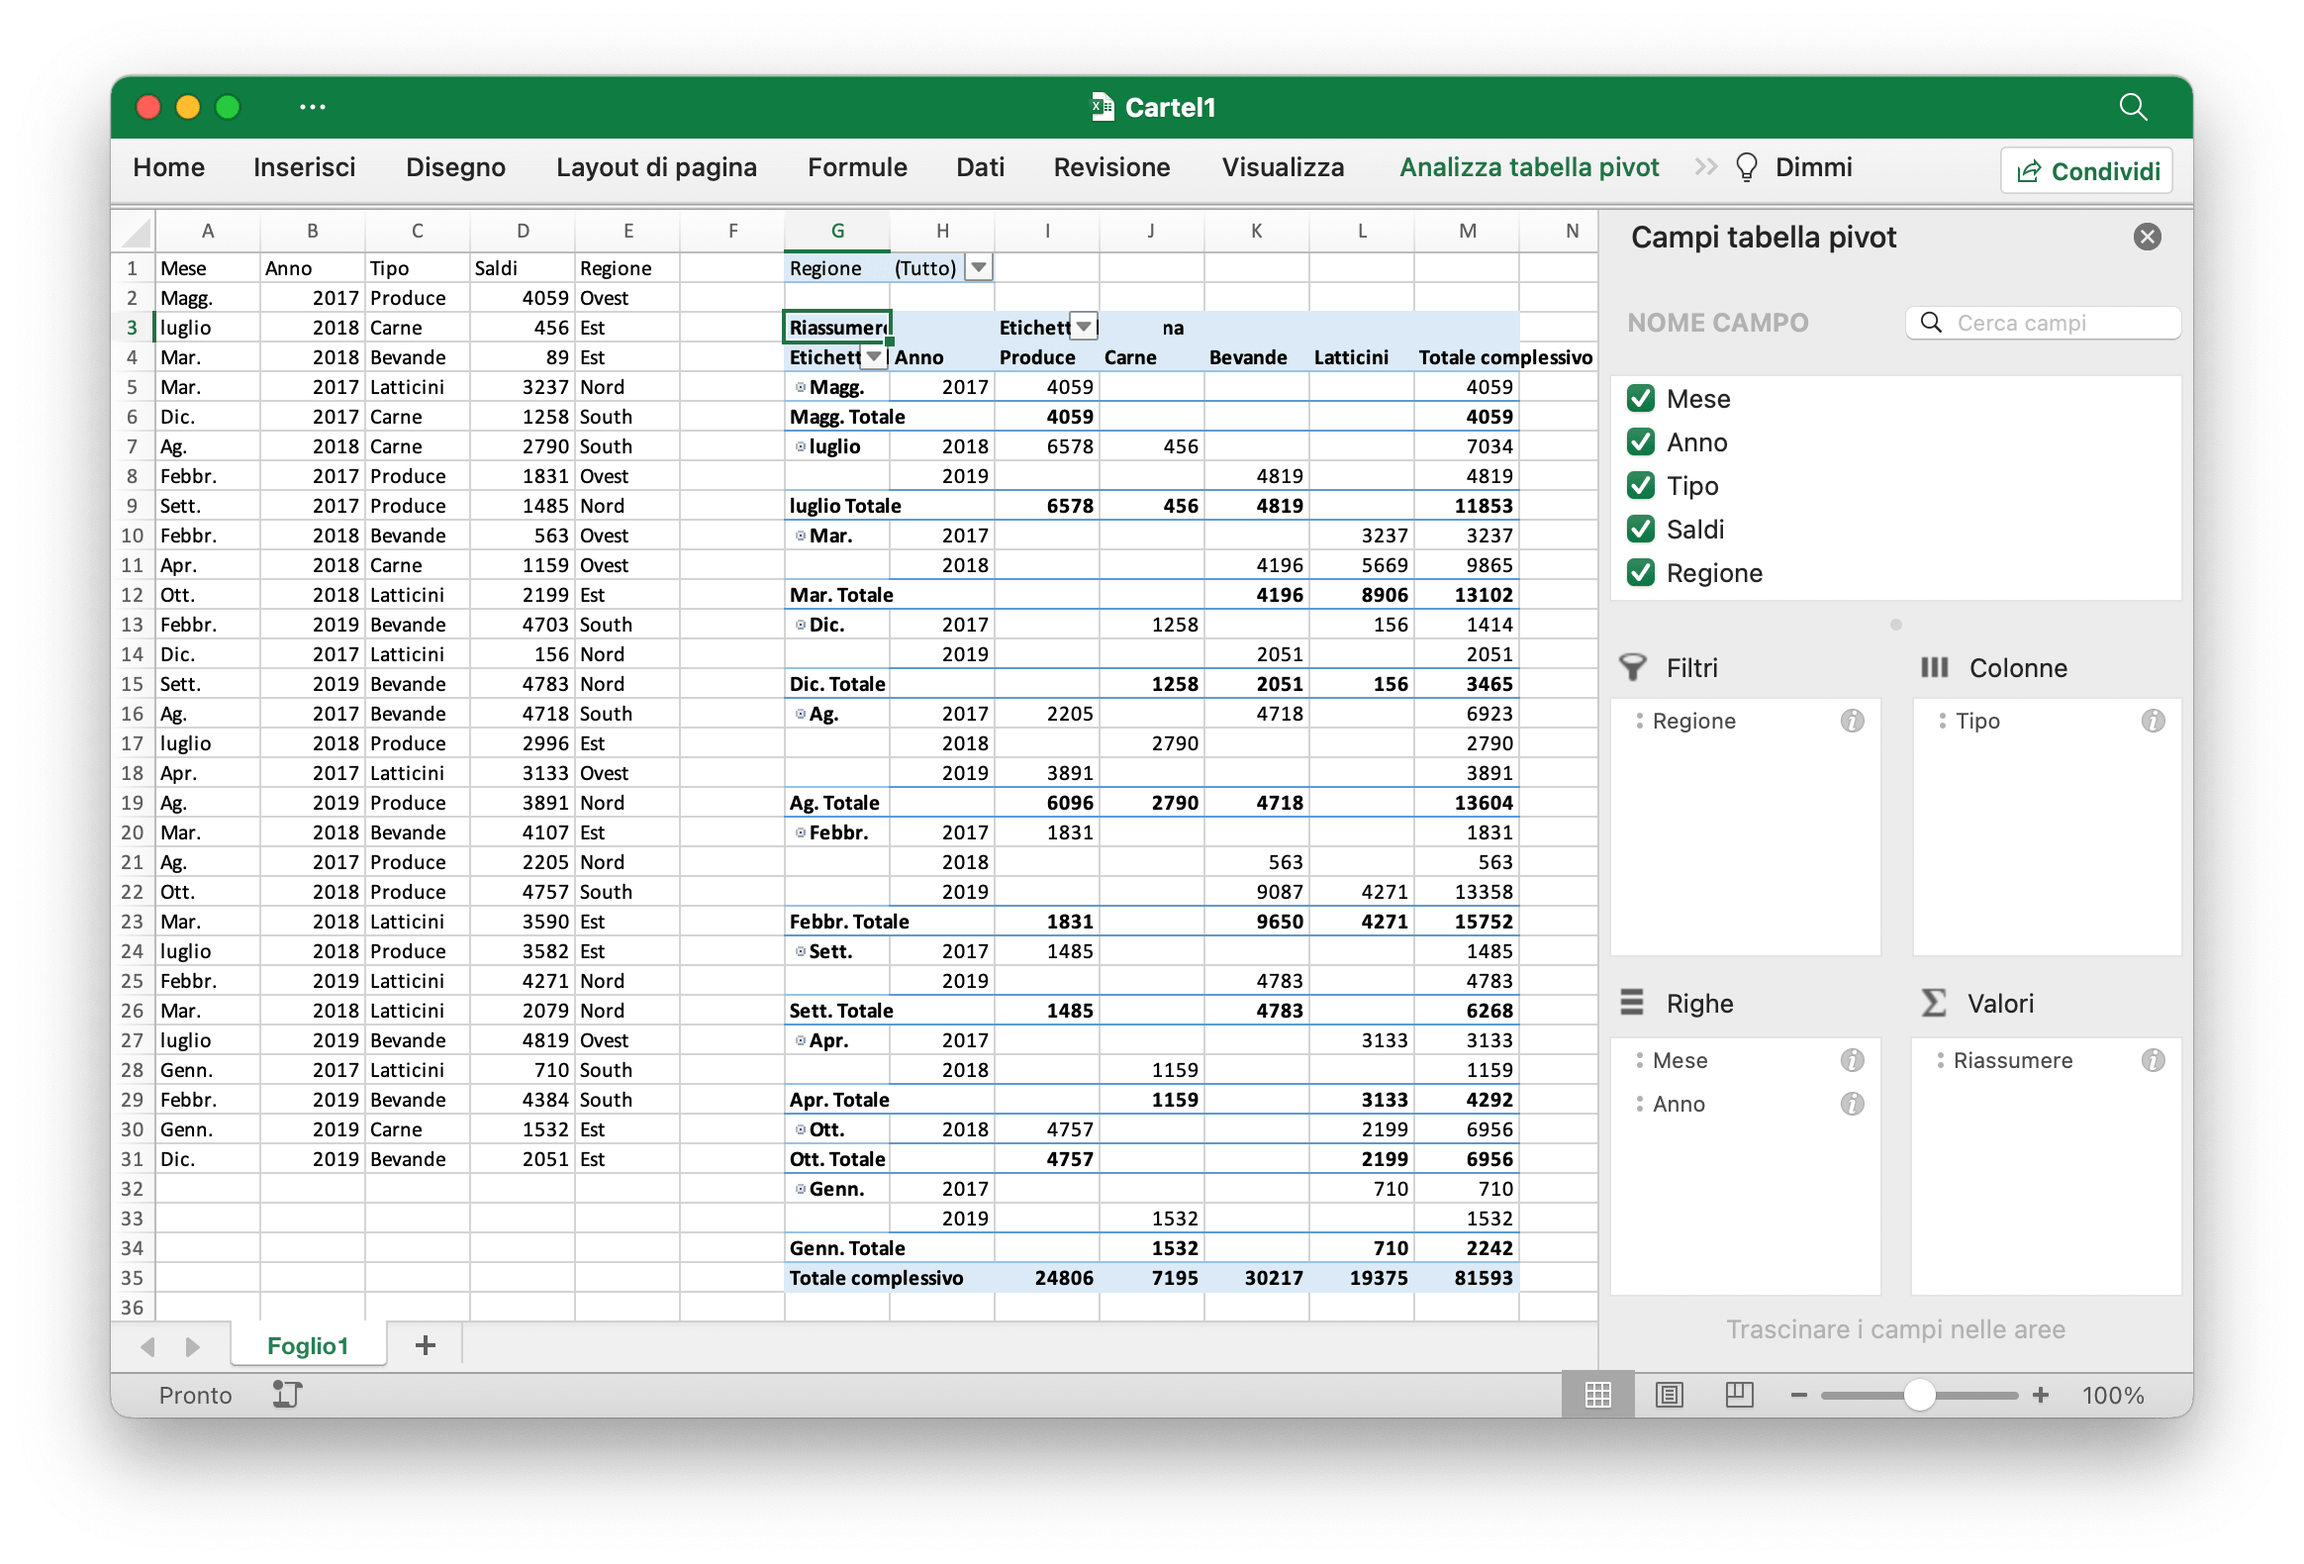
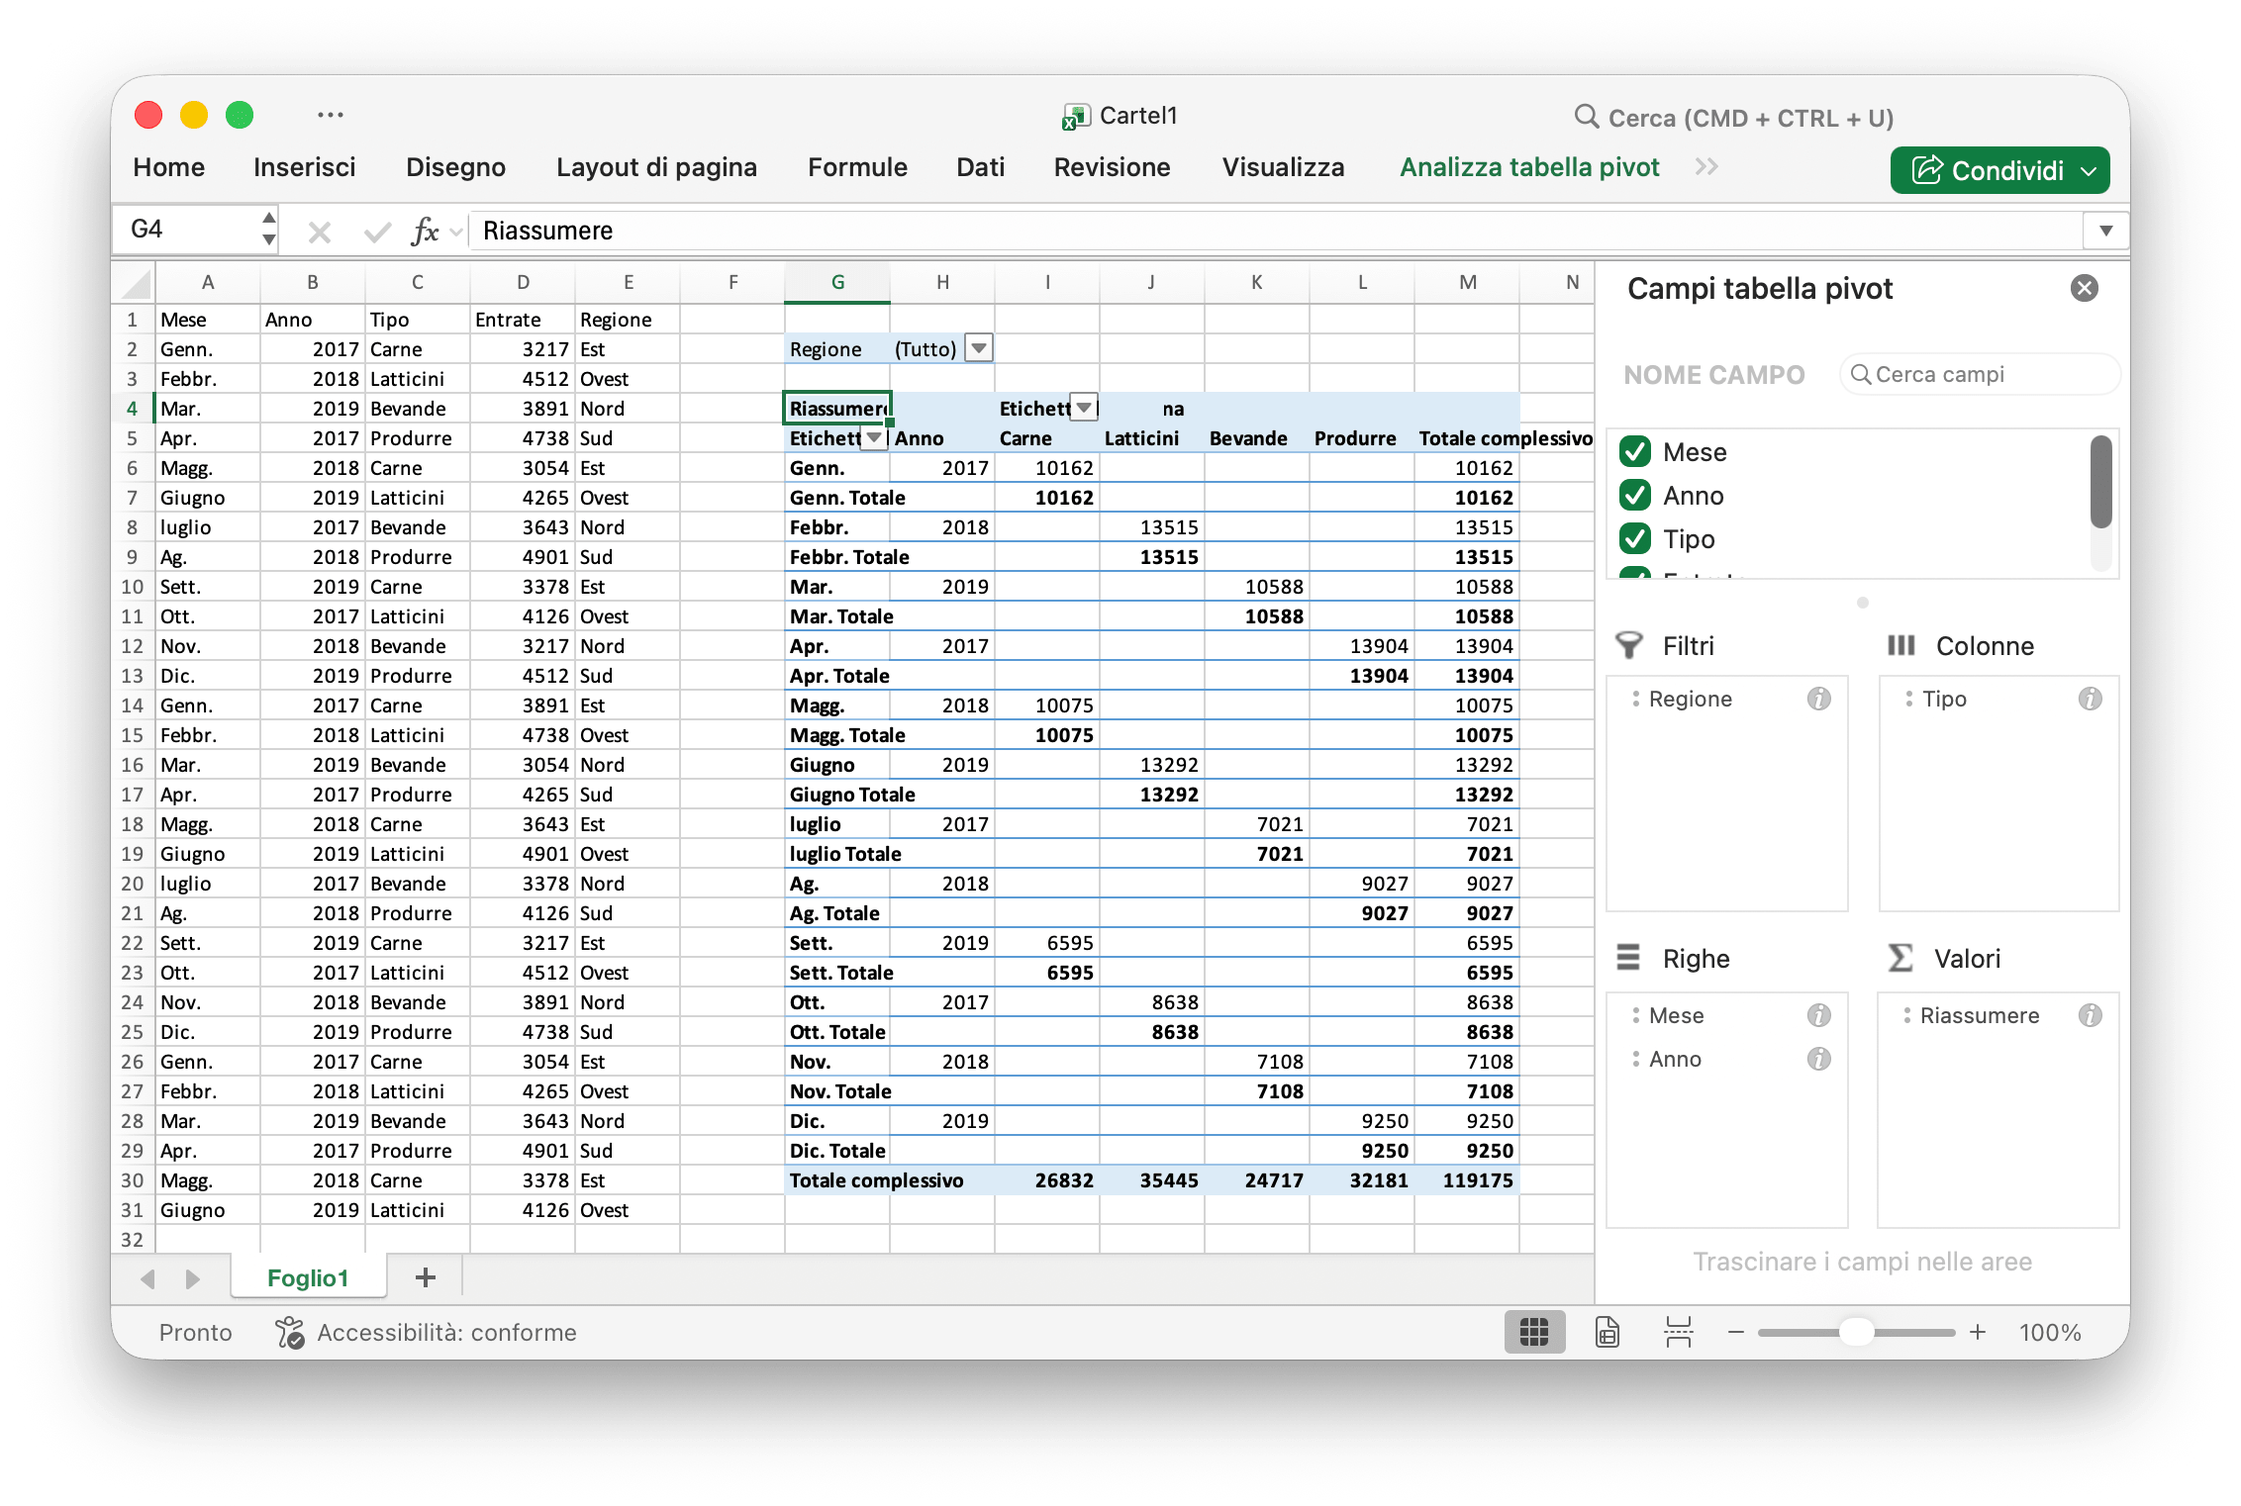
Update it version docs for new SelectedItems fields in PivotTableOptions and SlicerOptions data type
- This related for xuri/excelize#2154, and xuri/excelize#2271

diff --git a/it/pivot.md b/it/pivot.md
@@ -55,6 +55,7 @@ type PivotTableField struct {
     Subtotal        string
     DefaultSubtotal bool
     NumFmt          int
+    SelectedItems   []string
 }
 ```
 
@@ -76,6 +77,8 @@ type PivotTableField struct {
 
 `Name` specifica il nome del campo dati. Nel nome del campo dati sono consentiti al massimo `255` caratteri, i caratteri in eccesso verranno troncati.
 
+`SelectedItems` specifica gli elementi selezionati di default in un campo di una tabella pivot. Gli elementi selezionati devono essere valori compresi nell'intervallo di celle a cui fa riferimento tale campo.
+
 ## Crea tabella pivot {#AddPivotTable}
 
 ```go
@@ -84,16 +87,15 @@ func (f *File) AddPivotTable(opts *PivotTableOptions) error
 
 AddPivotTable fornisce il metodo per aggiungere una tabella pivot in base alle opzioni della tabella pivot.
 
-Ad esempio, crea una tabella pivot nell'area `Foglio1!$G$2:$M$34` con la regione `Foglio1!$A$1:$E$31` come origine dati, riepiloga per somma per le vendite:
+Ad esempio, crea una tabella pivot nell'area `Foglio1!G4:M30` con la regione `Foglio1!$A1:E31` come origine dati, riepiloga per somma per le vendite:
 
-<p align="center"><img width="1164" src="./images/pivot_table_01.png" alt="creare una tabella pivot con Excelize utilizzando Go"></p>
+<p align="center"><img width="1132" src="./images/pivot_table_01.png" alt="creare una tabella pivot con Excelize utilizzando Go"></p>
 
 ```go
 package main
 
 import (
     "fmt"
-    "math/rand"
 
     "github.com/xuri/excelize/v2"
 )
@@ -114,29 +116,39 @@ func main() {
         "Giugno", "luglio", "Ag.", "Sett.", "Ott.", "Nov.", "Dic."}
     year := []int{2017, 2018, 2019}
     types := []string{"Carne", "Latticini", "Bevande", "Produrre"}
+    revenue := []int{3217, 4512, 3891, 4738, 3054, 4265, 3643, 4901, 3378, 4126}
     region := []string{"Est", "Ovest", "Nord", "Sud"}
-    f.SetSheetRow("Foglio1", "A1", &[]string{"Mese", "Anno", "Tipo", "Saldi", "Regione"})
+    if err := f.SetSheetRow(
+        "Foglio1", "A1", &[]string{"Mese", "Anno", "Tipo", "Entrate", "Regione"},
+    ); err != nil {
+        fmt.Println(err)
+        return
+    }
     for row := 2; row < 32; row++ {
-        f.SetCellValue("Foglio1", fmt.Sprintf("A%d", row), month[rand.Intn(12)])
-        f.SetCellValue("Foglio1", fmt.Sprintf("B%d", row), year[rand.Intn(3)])
-        f.SetCellValue("Foglio1", fmt.Sprintf("C%d", row), types[rand.Intn(4)])
-        f.SetCellValue("Foglio1", fmt.Sprintf("D%d", row), rand.Intn(5000))
-        f.SetCellValue("Foglio1", fmt.Sprintf("E%d", row), region[rand.Intn(4)])
+        f.SetCellValue("Foglio1", fmt.Sprintf("A%d", row), month[(row-2)%len(month)])
+        f.SetCellValue("Foglio1", fmt.Sprintf("B%d", row), year[(row-2)%len(year)])
+        f.SetCellValue("Foglio1", fmt.Sprintf("C%d", row), types[(row-2)%len(types)])
+        f.SetCellValue("Foglio1", fmt.Sprintf("D%d", row), revenue[(row-2)%len(revenue)])
+        f.SetCellValue("Foglio1", fmt.Sprintf("E%d", row), region[(row-2)%len(region)])
     }
     if err := f.AddPivotTable(&excelize.PivotTableOptions{
         DataRange:       "Foglio1!A1:E31",
-        PivotTableRange: "Foglio1!G2:M34",
+        PivotTableRange: "Foglio1!G4:M30",
         Rows: []excelize.PivotTableField{
-            {Data: "Mese", DefaultSubtotal: true}, {Data: "Anno"}},
+            {Data: "Mese", DefaultSubtotal: true}, {Data: "Anno"},
+        },
         Filter: []excelize.PivotTableField{
-            {Data: "Regione"}},
+            {Data: "Regione"},
+        },
         Columns: []excelize.PivotTableField{
-            {Data: "Tipo", DefaultSubtotal: true}},
+            {Data: "Tipo", DefaultSubtotal: true},
+        },
         Data: []excelize.PivotTableField{
-            {Data: "Saldi", Name: "Riassumere", Subtotal: "Sum"}},
+            {Data: "Entrate", Name: "Riassumere", Subtotal: "Sum"},
+        },
         RowGrandTotals: true,
         ColGrandTotals: true,
-        ShowDrill:      true,
+        ShowDrill:      false,
         ShowRowHeaders: true,
         ShowColHeaders: true,
         ShowLastColumn: true,

diff --git a/it/data.md b/it/data.md
@@ -80,24 +80,28 @@ DeleteDataValidation elimina la convalida dei dati in base al nome del foglio di
 
 ```go
 type SlicerOptions struct {
-    Name          string
-    Table         string
-    Cell          string
-    Caption       string
-    Macro         string
-    Width         uint
-    Height        uint
-    DisplayHeader *bool
-    ItemDesc      bool
-    Format        GraphicOptions
+    Name            string
+    Cell            string
+    TableSheet      string
+    TableName       string
+    Caption         string
+    Macro           string
+    Width           uint
+    Height          uint
+    DisplayHeader   *bool
+    ItemDesc        bool
+    Format          GraphicOptions
+    SelectedItems   []string
 }
 ```
 
 `Name` specifica il nome dell'affettatrice, dovrebbe essere un nome di campo esistente della tabella o tabella pivot specificata, questa impostazione è obbligatoria.
 
-`Table` specifica il nome della tabella o della tabella pivot, questa impostazione è obbligatoria.
-
 `Cell` specifica le coordinate della cella in alto a sinistra la posizione per l'inserimento dell'affettatrice, questa impostazione è obbligatoria.
+
+`TableSheet` specifica il nome del foglio di lavoro della tabella o della tabella pivot, questa impostazione è obbligatoria.
+
+`TableName` specifica il nome della tabella o della tabella pivot, questa impostazione è obbligatoria.
 
 `Caption` specifica la didascalia dell'affettatrice, questa impostazione è facoltativa.
 
@@ -109,9 +113,11 @@ type SlicerOptions struct {
 
 `DisplayHeader` specifica se visualizzare l'intestazione dell'affettatrice, questa impostazione è facoltativa, l'impostazione predefinita è display.
 
-`ItemDesc` specifica l'ordinamento degli elementi discendente (Z-A), questa impostazione è facoltativa e l'impostazione predefinita è "false" (rappresenta ascendente).
+`ItemDesc` specifica l'ordinamento degli elementi discendente (Z-A), questa impostazione è facoltativa e l'impostazione predefinita è `false` (rappresenta ascendente).
 
 `Format` specifica il formato dell'affettatrice, questa impostazione è facoltativa.
+
+`SelectedItems` viene utilizzata per specificare gli elementi selezionati di default in un filtro dati. Attualmente è supportata solo per i filtri dati nelle tabelle pivot. Gli elementi selezionati devono rientrare nell'intervallo di elementi selezionati nella tabella pivot. Se la tabella pivot viene creata utilizzando la funzione [`AddPivotTable`](pivot.md#AddPivotTable), lo stesso campo deve avere anche l'intervallo di elementi selezionati specificato al momento della creazione della tabella pivot.
 
 ```go
 func (f *File) AddSlicer(sheet string, opts *SlicerOptions) error

diff --git a/it/README.md b/it/README.md
@@ -9,7 +9,7 @@ Excelize è una libreria scritta in puro Go che fornisce una serie di funzioni c
 - go.dev: [pkg.go.dev/github.com/xuri/excelize/v2](https://pkg.go.dev/github.com/xuri/excelize/v2)
 - Licenze: [BSD 3-Clause](https://opensource.org/licenses/BSD-3-Clause)
 - Ultima versione: [v2.10.1](https://github.com/xuri/excelize/releases/latest)
-- Orario aggiornamento documento: marzo 11, 2026
+- Orario aggiornamento documento: marzo 28, 2026
 
 ## Missione del progetto
 
